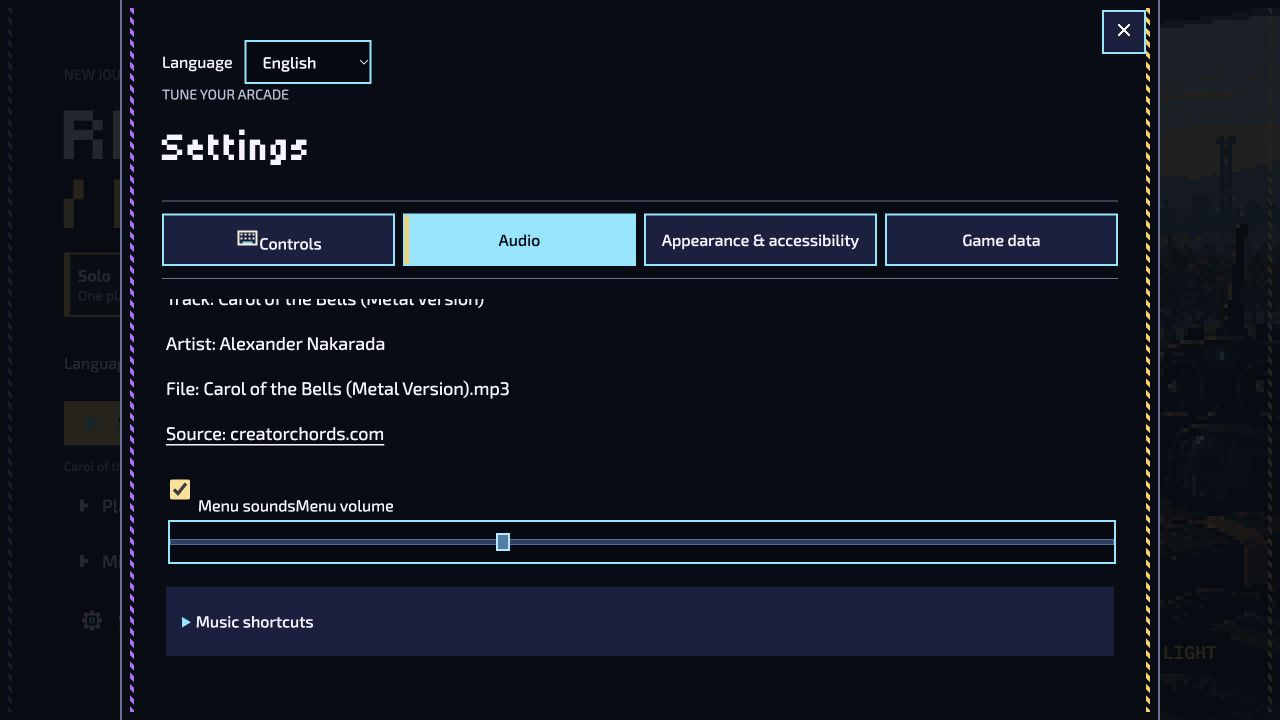
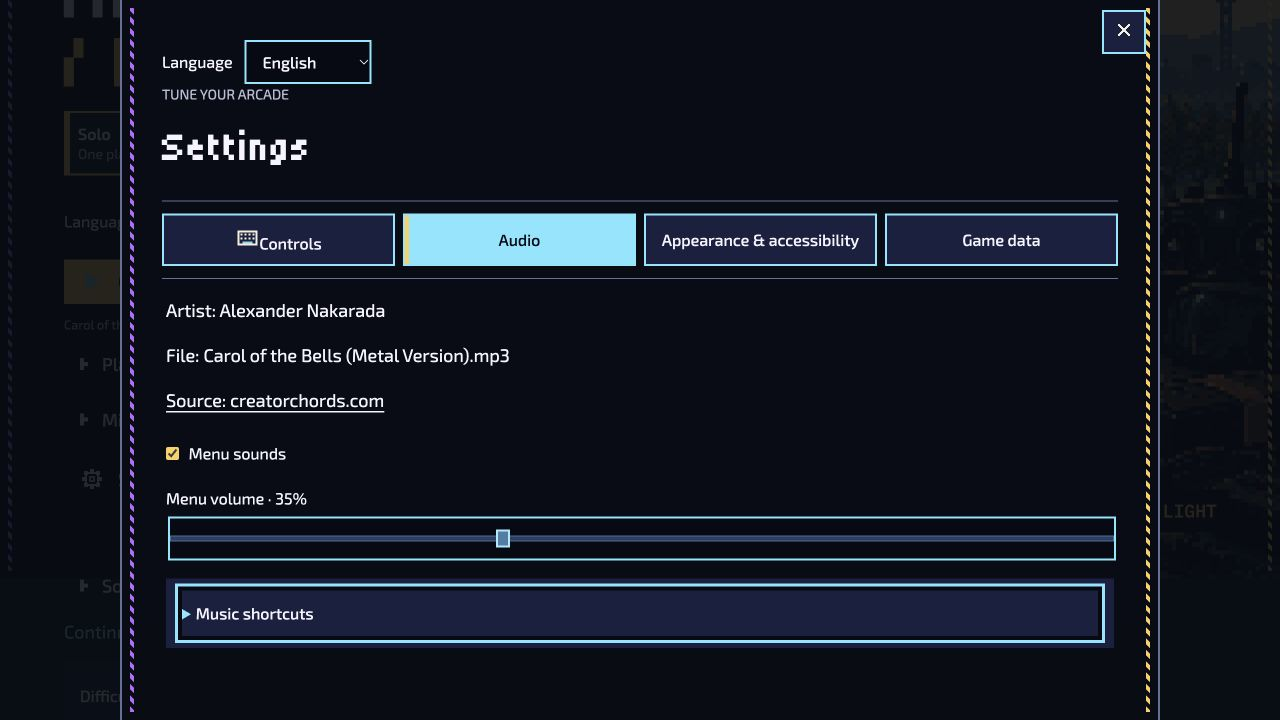
polish menu audio controls and record native build evidence

diff --git a/docs/verification/spatial-audio/implementation.md b/docs/verification/spatial-audio/implementation.md
@@ -39,6 +39,8 @@
 - Content and presentation validation passed, including English/Ukrainian localization.
 - Native Chromium 154 / macOS: final 42-asset bank decoded 42/42 in the production audition page.
 - Native shared-master probe at 48 kHz, 2026-09-29T08:06:23Z: all six checks passed; initial/mid-play mute and zero volume measured zero; quarter-volume RMS ratio 0.24965009; restored ratio 0.99944865; owned context closed.
+- Local production build passed (1818 files); all 42 WAV files plus the bank module are now in the core offline cache, and their built bytes match source. See `build.json`; this is packaging evidence, not an immutable release certificate.
+- Native Solo keyboard run completed the first mission: 34.3% coverage, 8160 score, three lives retained, no console errors. Master was muted, so this verifies gameplay/presentation only.
 - Native Solo booted and showed Audio → Menu sounds enabled, Menu volume 35. Disabled/20% settings survived reload; enabled/35% was then restored.
 - Full repository run exposed unrelated stale expectations/imports as well as an initial new fake-DOM compatibility failure. The new widget was corrected to use normal span elements. The broad run was stopped after failures and a pending Couch fixture; its output is not a green release gate. Replay/offline integration subsequently passed 19 tests, and the two Team reveal tests plus paused-music effects regression passed independently.
 - Baseline evidence: main's combat adapter test imports missing `game/ui/player-locator.mjs`; continuous-host asserts historical session v4 while current runtime emits v6; boot build fixture omits `authoring/motion-lab/animation.mjs`. These require separate qualification/triage.
